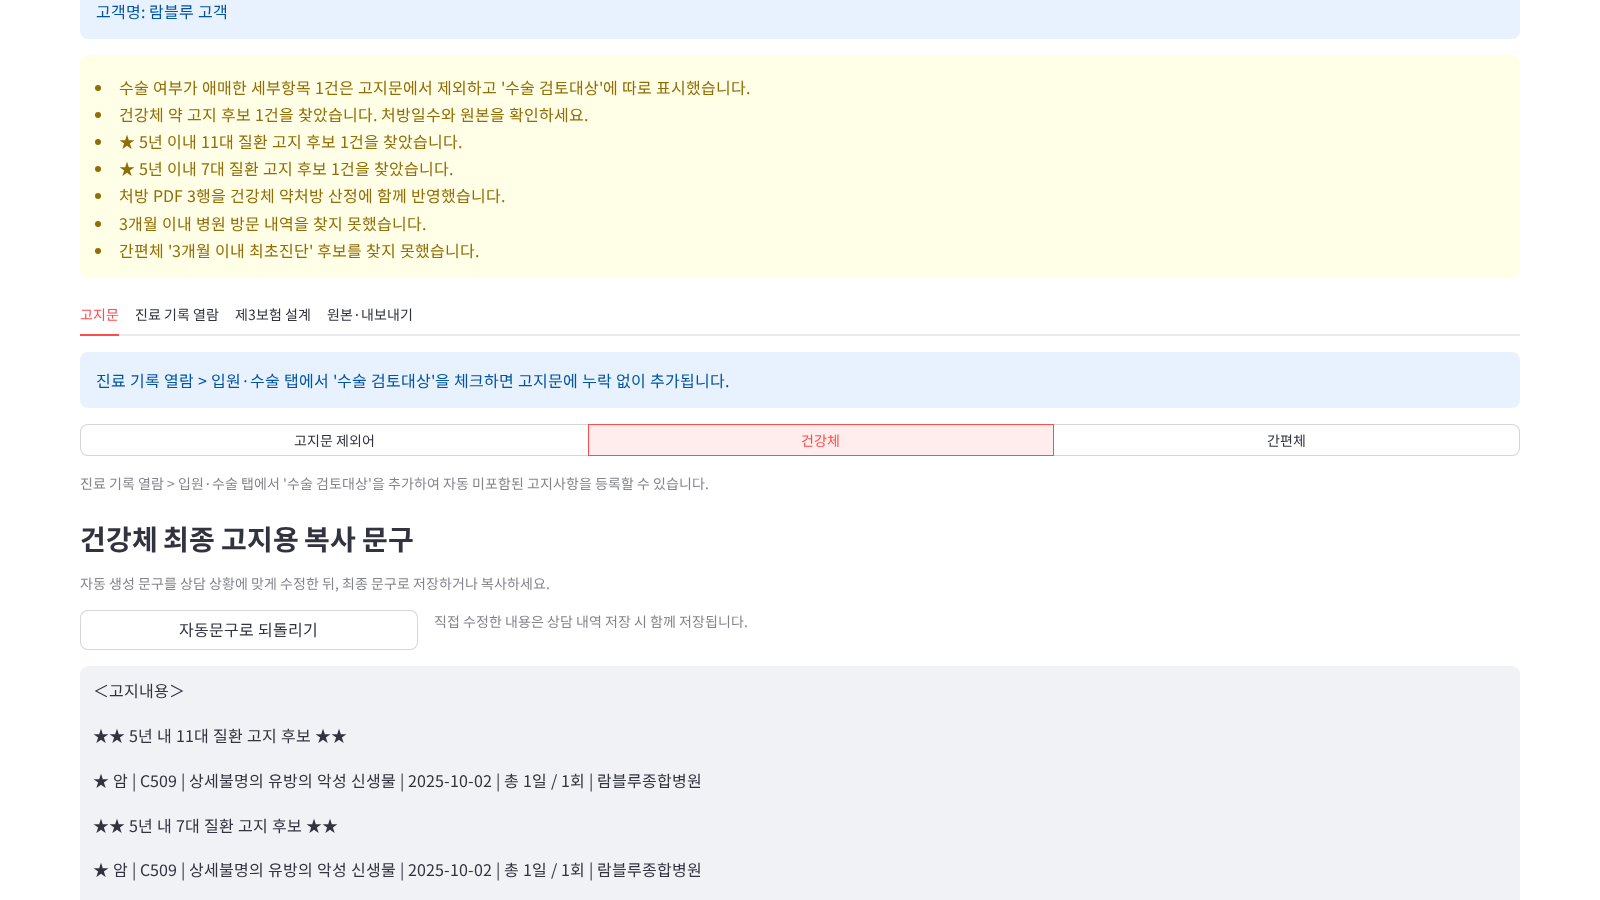
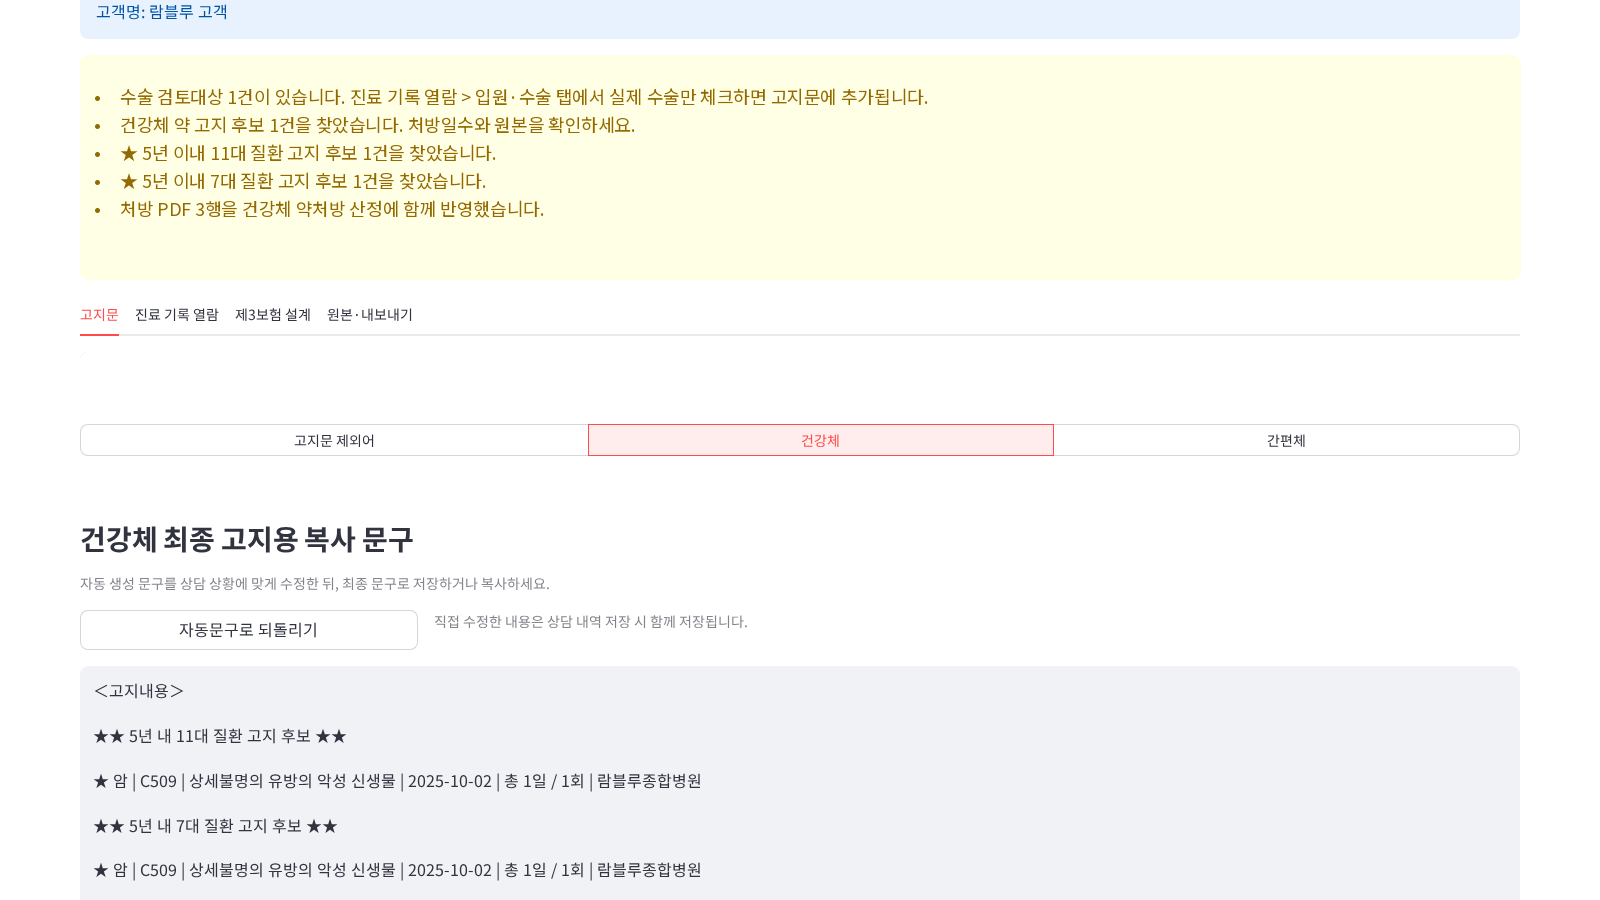
Make the MIO landing preview match current guidance
Refresh the landing page copy and preview assets so the public page shows concise MIO positioning and the updated surgery-review guidance without real customer data.\n\nConstraint: Public homepage assets must use only dummy data and generic product examples.\nRejected: Leaving the old preview warning text | It contradicted the in-app guidance cleanup.\nConfidence: high\nScope-risk: narrow\nDirective: Keep homepage screenshots sanitized; do not add customer names, source file names, or local paths.\nTested: Python HTML/image assertions; Chromium headless screenshot at 1600x1100; git diff --check\nNot-tested: GitHub Pages propagation before push.

Changed region(s): [[0.0625, 0.0933, 0.5938, 0.3111], [0.0625, 0.5289, 0.4375, 0.56], [0.0625, 0.4044, 0.4375, 0.4356]]

diff --git a/index.html b/index.html
@@ -6,6 +6,10 @@
   <title>MIO | Multi Insurance Optimizer</title>
   <meta name="description" content="보험설계사용 고지 검토, 진료기록 열람, 보험 설계표 관리 보조 앱 MIO 다운로드 페이지" />
   <meta name="theme-color" content="#070a0f" />
+  <link rel="icon" href="assets/mio-cat.png" />
+  <link rel="preconnect" href="https://fonts.googleapis.com">
+  <link rel="preconnect" href="https://fonts.gstatic.com" crossorigin>
+  <link href="https://fonts.googleapis.com/css2?family=Noto+Sans+KR:wght@400;700;800;900&display=swap" rel="stylesheet">
   <style>
     :root {
       --bg: #070a0f;
@@ -27,7 +31,7 @@
       margin: 0;
       min-height: 100vh;
       color: var(--ink);
-      font-family: ui-sans-serif, system-ui, -apple-system, BlinkMacSystemFont, "Segoe UI", "Noto Sans KR", "Apple SD Gothic Neo", sans-serif;
+      font-family: "Noto Sans KR", ui-sans-serif, system-ui, -apple-system, BlinkMacSystemFont, "Segoe UI", "Apple SD Gothic Neo", sans-serif;
       background:
         radial-gradient(circle at 50% -20%, rgba(55, 137, 255, .30), transparent 34rem),
         radial-gradient(circle at 12% 18%, rgba(67, 205, 255, .18), transparent 28rem),
@@ -77,14 +81,14 @@
       box-shadow: 0 18px 50px rgba(0,0,0,.20);
     }
     h1 {
-      max-width: 980px;
+      max-width: 1180px;
       margin: 22px auto 14px;
-      font-size: clamp(46px, 7vw, 92px);
+      font-size: clamp(42px, 5.8vw, 78px);
       line-height: .96;
       letter-spacing: -.075em;
     }
     .lead {
-      max-width: 680px;
+      max-width: 960px;
       margin: 0 auto 24px;
       color: var(--muted);
       font-size: clamp(17px, 2vw, 21px);
@@ -194,8 +198,8 @@
   <main class="wrap">
     <section class="hero" id="download">
       <span class="badge">RAMBLUE · 보험설계사용 업무 보조 앱</span>
-      <h1>고지 검토와 보험 설계를 한 화면에서.</h1>
-      <p class="lead">진료 PDF를 정리하고, 고지문·진료기록·보험 설계표를 로컬 PC에서 관리합니다.</p>
+      <h1>MIO로 고지 검토부터 보험 설계까지</h1>
+      <p class="lead">진료 PDF를 정리해 고지문, 진료기록, 설계표를 로컬 PC에서 바로 관리하세요.</p>
       <div class="cta-row">
         <a id="winDownload" class="btn primary" href="https://github.com/donggeonbae/multi-insurance-optimizer-updates/releases/latest/download/MIO_Setup.exe">Windows 설치</a>
         <a id="macDownload" class="btn secondary" href="https://github.com/donggeonbae/multi-insurance-optimizer-updates/releases/latest/download/MIO_macOS_Setup_v1.5.14.pkg">macOS 설치</a>
